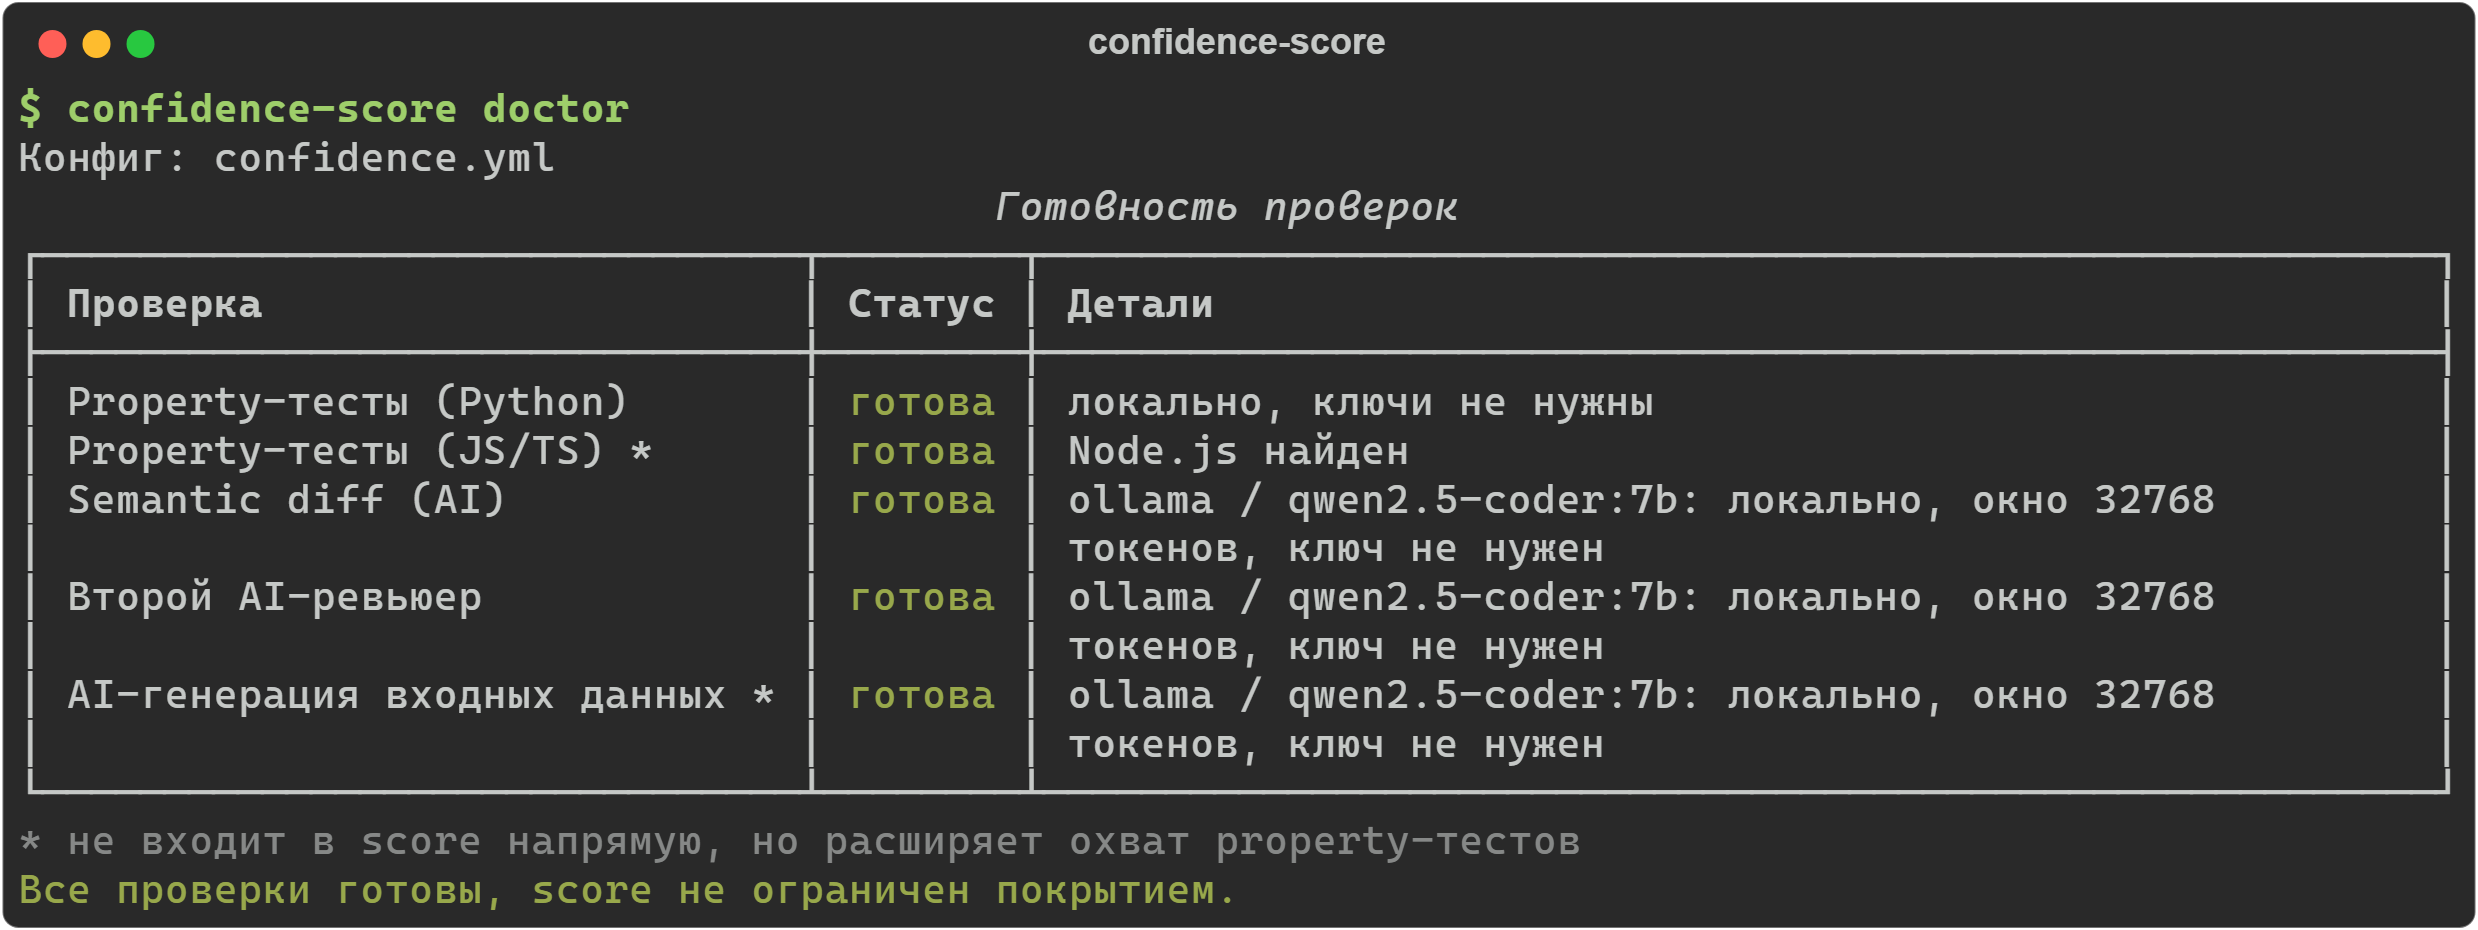
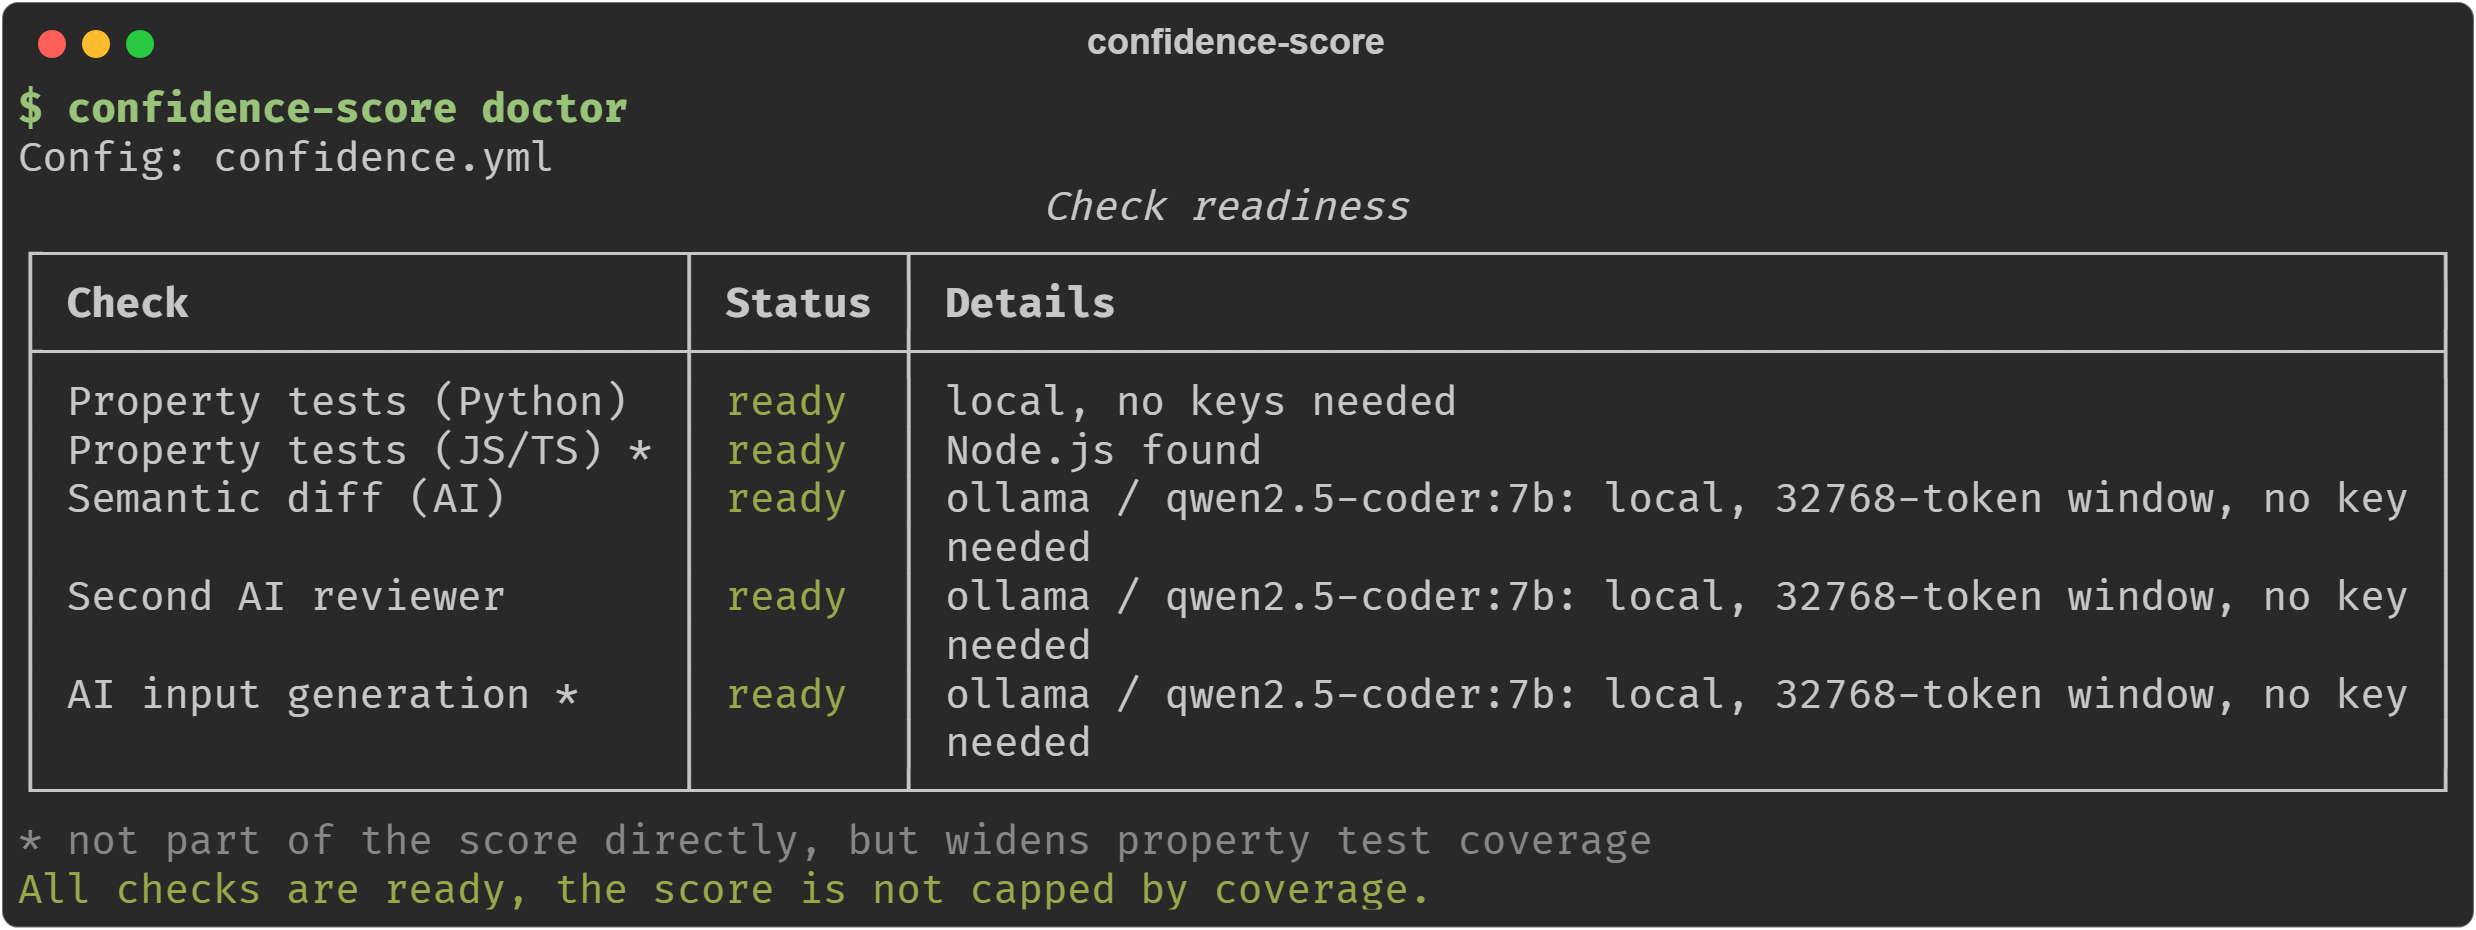
docs: скриншоты doctor и прогонов демо на английском

diff --git a/example_demo/README.ru.md b/example_demo/README.ru.md
@@ -23,7 +23,7 @@
 Так выглядит второй сценарий, если все три проверки выполняет локальная
 qwen2.5-coder:7b:
 
-![Безопасный рефакторинг: score 92/100](../docs/images/run-safe.png)
+![Безопасный рефакторинг: score 91/100](../docs/images/run-safe.png)
 
 Замечание semantic diff здесь ложное: `" ".join(text.split())` тоже убирал
 пробелы по краям строки. Модели на 7B иногда выдумывают такие изменения, и

diff --git a/example_demo/README.md b/example_demo/README.md
@@ -25,7 +25,7 @@ imitate changes made by an AI.
 This is the second scenario with all three checks running on a local
 qwen2.5-coder:7b:
 
-![Safe refactoring: score 92/100](../docs/images/run-safe.png)
+![Safe refactoring: score 91/100](../docs/images/run-safe.png)
 
 The semantic diff finding here is a false one: `" ".join(text.split())` also
 stripped whitespace at the ends of the string. 7B models sometimes invent
